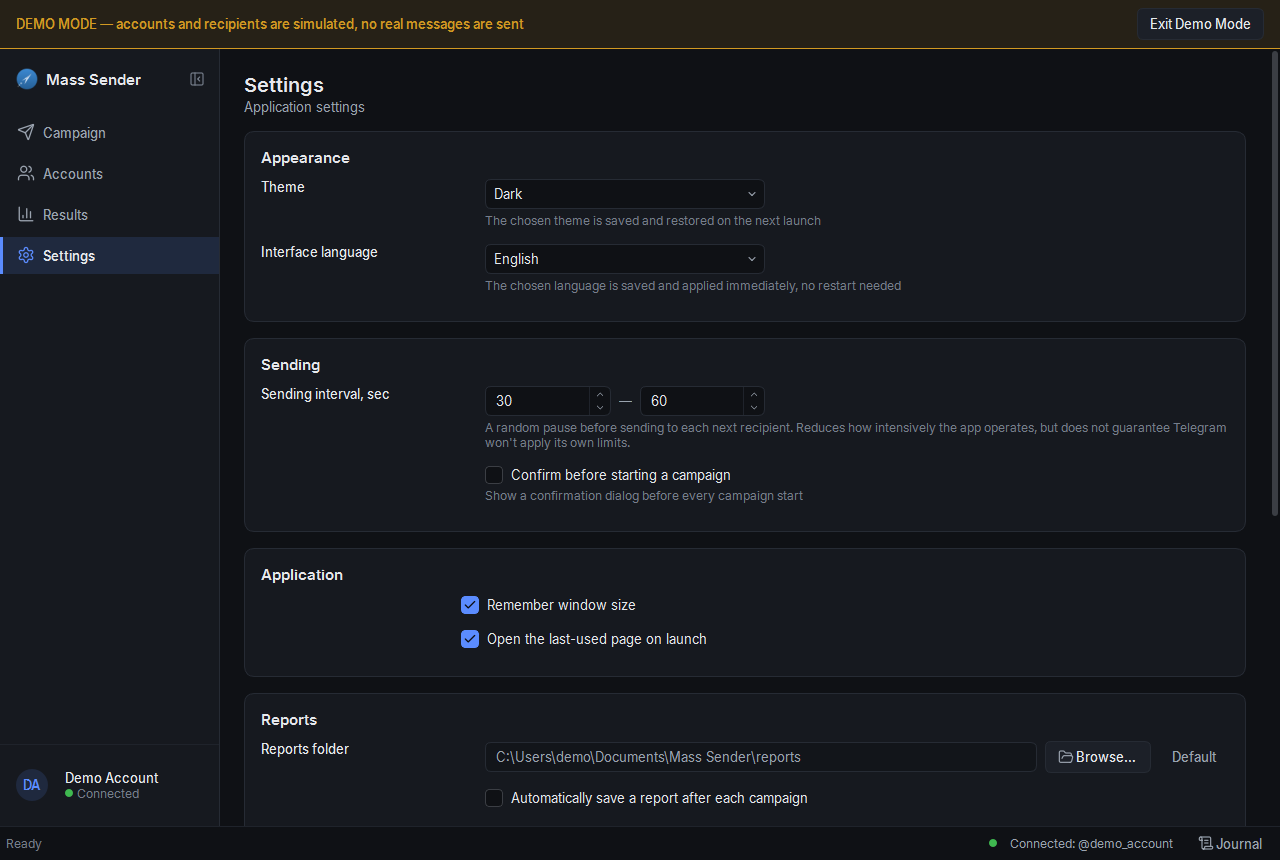
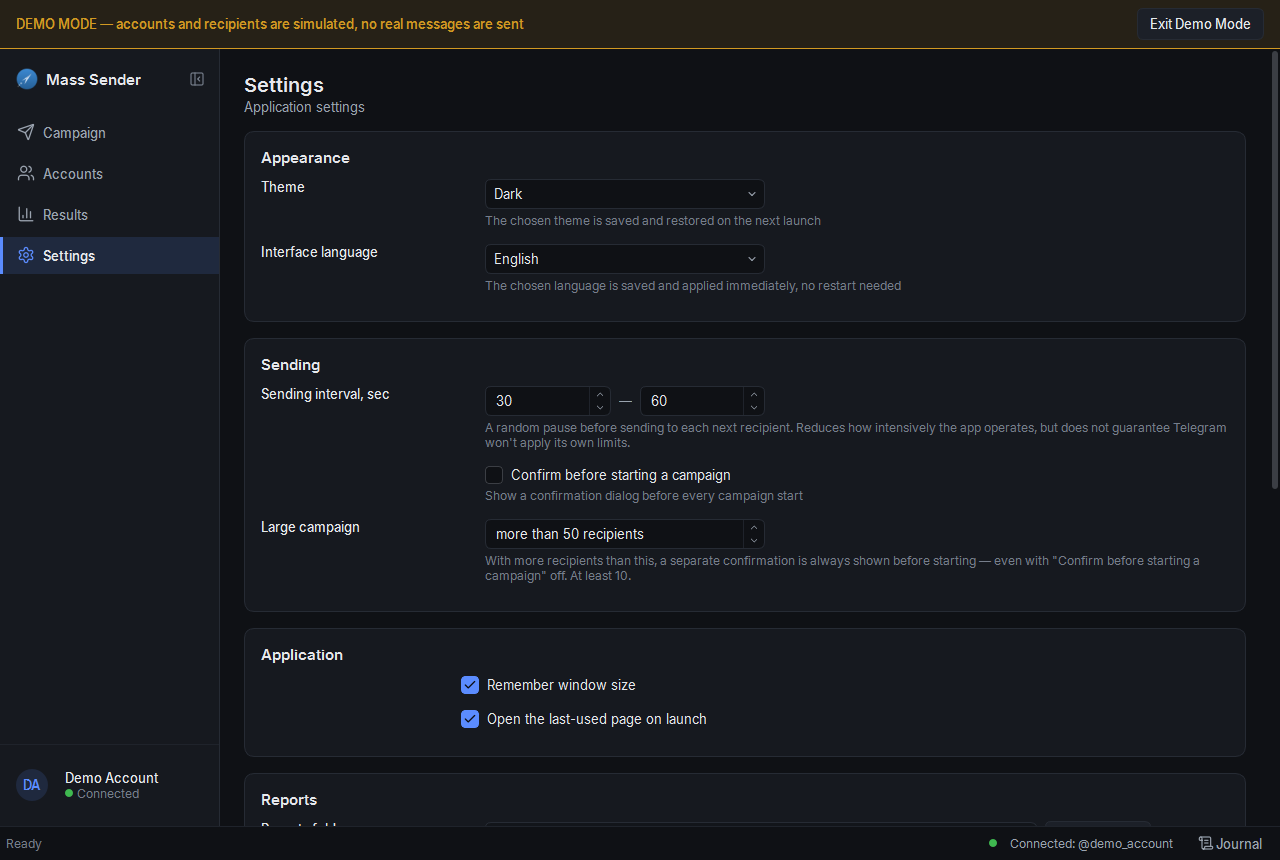
Docs: roadmap, v2.1.0 release-notes draft, settings screenshots
ROADMAP marks the redesign, the dialog picker and the mass-send guard
as done (verification on a real account stays open). A draft of the
v2.1.0 notes (EN + RU) is in docs/release-notes -- not published, no
version or tag change. README notes that Retry honours the optional
confirmation. Settings screenshots reshot with the Large campaign row.

diff --git a/docs/release-notes/v2.1.0.md b/docs/release-notes/v2.1.0.md
@@ -1,0 +1,65 @@
+# TelegramMassSender v2.1.0 — release notes (draft)
+
+> Draft. Not published, no tag yet; `APP_VERSION` is still 2.0.1. Fill in the download link and the date at release time.
+
+## English
+
+### Groups, supergroups and channels as recipients
+- Send to groups, supergroups (forums: to the "General" topic) and channels **the account is already a member of and allowed to post in** — by `@username` / `t.me/username`, chat ID (`-100…` / `-…`), `t.me/c/…` link, or an invite link the account has already joined (`t.me/+…`, only checked, never joined).
+- People and chats can be mixed in one list. Each chat is checked against its permissions before sending (admin rights for channels; member restrictions, media rights and slow mode for groups). Telegram's errors are shown as clear reasons.
+- Slow mode fails only that chat ("wait N sec") and the campaign goes on; FloodWait still pauses the campaign as before.
+- `{name}` becomes the chat title for a chat (a CSV name still wins). Reports have a type column; Retry never re-sends to a chat already delivered to and resumes a partly delivered message.
+
+### New interface
+- A calmer, consistent design in both themes: one token-based theme system, Inter, Lucide icons, a dark Windows title bar in the dark theme, a collapsible sidebar, a two-column Campaign page with a chat-style preview and a launch panel that turns into live progress, a Results table, toasts for quick confirmations, visible keyboard focus and a logical Tab order. Fits a 1366×768 screen at 125 %.
+
+### Picking recipients from your dialogs
+- **From my chats…** (Campaign page and Campaign Wizard) shows every dialog of the active account — people, bots, groups, supergroups, forums, channels — newest first, with type filters, Telegram folders (including shared folders), an archive toggle and search.
+- Dialogs the account can't write to are greyed out with the reason; recipients already in the list are marked and not added twice.
+- People without a @username are added by ID and found through the account's dialogs at send time.
+- The list is read once per session per account; **Refresh** reads it again. Nothing is joined and no avatars are downloaded.
+
+### Protection against an accidental mass send
+- With more recipients than the **Large campaign** threshold (Settings → Sending, default 50, minimum 10), a separate confirmation always appears before starting — even with "Confirm before starting a campaign" off. It shows how many people, bots and chats will receive the message; Cancel is the default.
+
+### Changes in behaviour
+- **Retry** now also asks for confirmation when "Confirm before starting a campaign" is on, and always above the large-campaign threshold.
+- **From my chats…** now lists people and bots too, and shows chats the account can't write to (greyed out) instead of hiding them.
+- A person given by numeric ID who isn't known to the session is now looked up in the account's dialogs instead of failing as "not found".
+- The dialog list is kept for the session; press **Refresh** in the picker to see chats joined since.
+- Demo Mode has people, bots, an archive, folders and chats without rights to try the picker on.
+
+### Known limitations
+- Posting into a specific forum topic isn't supported (always "General").
+- Tested against a mock Telegram client and Demo Mode; please check against your own account before relying on it.
+
+## Русский
+
+### Группы, супергруппы и каналы в получателях
+- Отправка в группы, супергруппы (форумы — в тему «General») и каналы, где аккаунт **уже состоит и имеет право писать**: по `@username` / `t.me/username`, ID чата (`-100…` / `-…`), ссылке `t.me/c/…` или ссылке-приглашению, по которой аккаунт уже вступил (`t.me/+…` — только проверяется, программа сама никогда не вступает).
+- Люди и чаты могут быть в одном списке. Права в каждом чате проверяются до отправки (права администратора в канале; ограничения участников, медиа и медленный режим в группах), ошибки Telegram показываются понятными причинами.
+- Медленный режим проваливает только этот чат («подождите N сек.»), рассылка идёт дальше; FloodWait по-прежнему ставит рассылку на паузу.
+- `{name}` для чата — его название (имя из CSV по-прежнему важнее). В отчётах есть тип получателя; «Повтор» не отправляет повторно в чат, куда уже доставлено, и продолжает частично доставленное сообщение.
+
+### Новый интерфейс
+- Спокойный единый дизайн в обеих темах: одна система токенов, шрифт Inter, иконки Lucide, тёмный заголовок окна Windows в тёмной теме, сворачиваемое меню, страница «Кампания» в две колонки с предпросмотром в виде сообщения и панелью запуска, которая превращается в ход рассылки, таблица результатов, всплывающие уведомления, видимый фокус клавиатуры и логичный порядок Tab. Помещается на экран 1366×768 при масштабе 125 %.
+
+### Выбор получателей из своих диалогов
+- **«Из моих чатов…»** (страница «Кампания» и Мастер кампании) показывает все диалоги активного аккаунта — людей, ботов, группы, супергруппы, форумы и каналы — сверху свежие; фильтр по типу, папки Telegram (включая общие), переключатель архива и поиск.
+- Диалоги, куда писать нельзя, приглушены, причина — в подсказке; получатели, которые уже есть в списке, помечены и второй раз не добавляются.
+- Люди без @username добавляются по ID и при отправке находятся через список диалогов аккаунта.
+- Список загружается один раз за сеанс для аккаунта; кнопка **«Обновить»** загружает его заново. Программа никуда не вступает и не скачивает аватарки.
+
+### Защита от случайной большой рассылки
+- Если получателей больше порога **«Большая рассылка»** (Настройки → Отправка, по умолчанию 50, не меньше 10), перед стартом всегда показывается отдельное подтверждение — даже при выключенном «Подтверждать запуск рассылки». В нём видно, сколько людей, ботов и чатов получат сообщение; по умолчанию выбрана «Отмена».
+
+### Изменения поведения
+- **«Повторить ошибки»** теперь тоже спрашивает подтверждение, если включено «Подтверждать запуск рассылки», и всегда — выше порога большой рассылки.
+- **«Из моих чатов…»** показывает и людей с ботами, а чаты, куда писать нельзя, — приглушёнными, а не скрывает их.
+- Человек, указанный числовым ID и неизвестный сессии, теперь ищется в диалогах аккаунта, а не сразу получает «не найден».
+- Список диалогов хранится в течение сеанса; чтобы увидеть чаты, в которые вы вступили позже, нажмите **«Обновить»** в окне выбора.
+- В демо-режиме появились люди, боты, архив, папки и чаты без прав — на них можно попробовать окно выбора.
+
+### Известные ограничения
+- Отправка в конкретную тему форума не поддерживается (всегда «General»).
+- Проверено на мок-клиенте Telegram и в демо-режиме; перед использованием проверьте на своём аккаунте.

diff --git a/ROADMAP.md b/ROADMAP.md
@@ -1021,9 +1021,10 @@ an error.
       `CheckChatInviteRequest` (`ChatInviteAlready` → that chat, anything
       else → "not a member"). In the Recipients box, TXT and CSV import
       (one recognizer, `app/recipients/parser.py`) — `tests/test_parser_chat_targets.py`
-- [x] Resolving — one dialogs fetch per campaign, lazily, before the
-      first chat ID (no access_hash otherwise); FloodWait there pauses
-      the campaign like a send does. Type detection user / group /
+- [x] Resolving — at most one dialogs fetch per campaign, lazily, before
+      the first chat ID (no access_hash otherwise) — and none at all when
+      the session's dialog cache (see below) already has the ID;
+      FloodWait there pauses the campaign like a send does. Type detection user / group /
       supergroup / forum / channel (`app/telegram/chat_targets.py`,
       `app/telegram/recipient_resolver.py`) — `tests/test_chat_targets_resolve.py`
 - [x] Permission preflight before any send — channel: creator or admin
@@ -1046,10 +1047,10 @@ an error.
 - [x] `{name}` → chat title for chats; a CSV name still wins
 - [x] Forum supergroups — plain send, i.e. the "General" topic; a clear
       reason if that fails
-- [x] UI — "From my chats…" picker (type filter, title search,
-      checkboxes; only chats the account can post to), users vs
-      groups/channels in the start confirmation, chat type on the
-      Results list — `tests/test_chat_targets_ui.py`
+- [x] UI — "From my chats…" picker (since extended to every dialog, see
+      "Picking recipients from dialogs" below), users vs groups/channels
+      in the start confirmation, chat type on the Results list —
+      `tests/test_chat_targets_ui.py`
 - [x] Reports/Retry — "Тип" column says группа/супергруппа/канал; Retry
       skips chats already delivered to (also under another spelling)
       and resumes a partly delivered message after its last delivered
@@ -1063,6 +1064,57 @@ an error.
 - [ ] Verify against a real account (own test channel + own group) —
       see the manual checklist in the change summary; not something the
       automated suite can cover
+
+---
+
+# UI Redesign ("a quiet console")
+
+- [x] One theme system: every colour, size, font and duration as tokens
+      for both themes (`app/ui/theme/tokens.py`), one QSS template, one
+      `apply_theme()`; Inter, Lucide icons, dark Windows title bar —
+      decisions in `docs/design.md`
+- [x] Every page and dialog on it: collapsible sidebar, two-column
+      Campaign page with a chat-style preview and a launch panel that
+      becomes live progress, Results table, Settings, Journal, dialogs
+      and Campaign Wizard on one structure, toasts, empty states,
+      keyboard focus ring and Tab order, contrast checked
+- [x] Hygiene enforced by `scripts/check_ui_hygiene.py` (no colours,
+      sizes or glyphs outside the tokens; token colours only through
+      `theme.qcolor()`, which also reads translucent `rgba()` tokens)
+- [x] Before/after screenshots, both themes, RU and EN —
+      `docs/redesign/`
+
+# Picking recipients from dialogs
+
+- [x] "From my chats…" lists every dialog of the active account —
+      people, bots, groups, supergroups, forums, channels — newest first,
+      without Saved Messages, deleted accounts and 777000
+      (`chat_targets.list_dialogs`, model/proxy/delegate in
+      `app/ui/dialog_picker_model.py`)
+- [x] Filters: type segments, Telegram folders (incl. shared folders
+      from a link; hidden when there are none or they can't be read),
+      archive toggle (off by default), search by name/title/@username
+- [x] Unavailable dialogs muted with the reason, not selectable;
+      already-listed ones marked (by @username and by ID); select all
+      shown / none; people/bots/chats counter; no avatars downloaded
+- [x] Picked dialogs go in as @username, else the ID; a person added by
+      ID is found through the dialogs at send time
+- [x] Same picker in the Campaign Wizard's recipients step
+- [x] Read once per session per account (Refresh and account changes
+      read again); a campaign's dialogs warm-up starts from that read
+- [x] Demo Mode: people, bots, archive, folders, chats without rights
+- [x] 5000 dialogs filter well under a quarter second (tested)
+- [ ] Verify against a real account (many dialogs, archive, folders
+      incl. shared ones, a person without @username picked by ID)
+
+# Accidental mass-send guard
+
+- [x] More recipients than the "Large campaign" threshold (Settings →
+      Sending, default 50, minimum 10) always asks before starting,
+      whatever "Confirm before starting a campaign" says: people, bots,
+      chats listed; Start is the danger button, Cancel the default
+- [x] One confirmation gate for the Campaign page, the Campaign Wizard
+      and Retry (Retry now also honours the optional confirmation)
 
 ---
 

diff --git a/README.md b/README.md
@@ -23,7 +23,7 @@ It supports multiple Telegram accounts, rich text formatting, media/album attach
 - Personal, one-by-one messages from your own Telegram account — no bots.
 - Recipients by `@username`, numeric Telegram ID, `t.me` link, or E.164 phone number — pasted directly, imported from a TXT file, or imported from a CSV file (columns detected automatically, including an optional name column mapped to `{name}`).
 - Groups, supergroups (including forums — posted to "General") and channels the account is already in and may post to: by `@username` / `t.me/username`, by chat ID (`-100…` / `-…`), by `t.me/c/…` link, or by an invite link the account has already joined (`t.me/+…`, only checked — never joined). Mixed lists of people and chats work, and each chat is pre-checked against its permissions (admin rights for channels, member restrictions and media rights for groups) before anything is sent.
-- A guard against an accidental mass send: more recipients than a configurable threshold (Settings → Sending, default 50, minimum 10) always asks before starting — people, bots and chats listed, Cancel as the default — on every start path (Campaign page, Campaign Wizard, Retry).
+- A guard against an accidental mass send: more recipients than a configurable threshold (Settings → Sending, default 50, minimum 10) always asks before starting — people, bots and chats listed, Cancel as the default — on every start path (Campaign page, Campaign Wizard, Retry). The optional "Confirm before starting a campaign" now covers Retry too.
 - A **From my chats…** picker (Campaign page and Campaign Wizard) lists every dialog of the active account — people, bots, groups, supergroups, forums, channels — newest first, with type segments, a Telegram-folder filter, an archive toggle and search by name/title/@username. Dialogs it can't write to are shown muted with the reason; ones already in the list are marked and not added twice. Picked dialogs go in as `@username`, or as their ID when there is none (a person added by ID is found through the account's dialogs at send time). It only reads the dialog and folder lists — no joining, no avatars downloaded — once per session per account (Refresh and account changes read them again), and a campaign's dialogs warm-up starts from that same list.
 - Per-recipient name personalization via a `{name}` placeholder, including inside rich-text formatting; for a group/channel it becomes the chat's title; a CSV-supplied name takes priority over Telegram's own name for that recipient.
 - Rich text editor (bold/italic/underline/strikethrough/spoiler/monospace/code block/links/emoji) with a live Telegram-style message preview, including a personalization preview against an example name.
@@ -487,7 +487,7 @@ https://t.me/user3
 
 Если в списке есть числовые ID чатов, перед первым таким чатом программа один раз загружает список ваших диалогов (без этого Telegram не даёт найти чат по ID). То же самое происходит, если Telegram не может найти человека по числовому ID из-за отсутствия данных о нём в сессии. Если Telegram в этот момент попросит подождать (FloodWait), рассылка встанет на паузу так же, как при отправке.
 
-Если подтверждение перед стартом включено (Настройки), окно подтверждения показывает отдельно число пользователей и число групп/каналов; `@username` и ссылки `t.me/username` посчитаны отдельно, потому что человек это или чат, становится известно только при отправке.
+Если подтверждение перед стартом включено (Настройки), окно подтверждения (оно показывается и перед «Повторить ошибки») показывает отдельно число пользователей и число групп/каналов; `@username` и ссылки `t.me/username` посчитаны отдельно, потому что человек это или чат, становится известно только при отправке.
 
 Программа автоматически:
 - убирает пустые строки;
